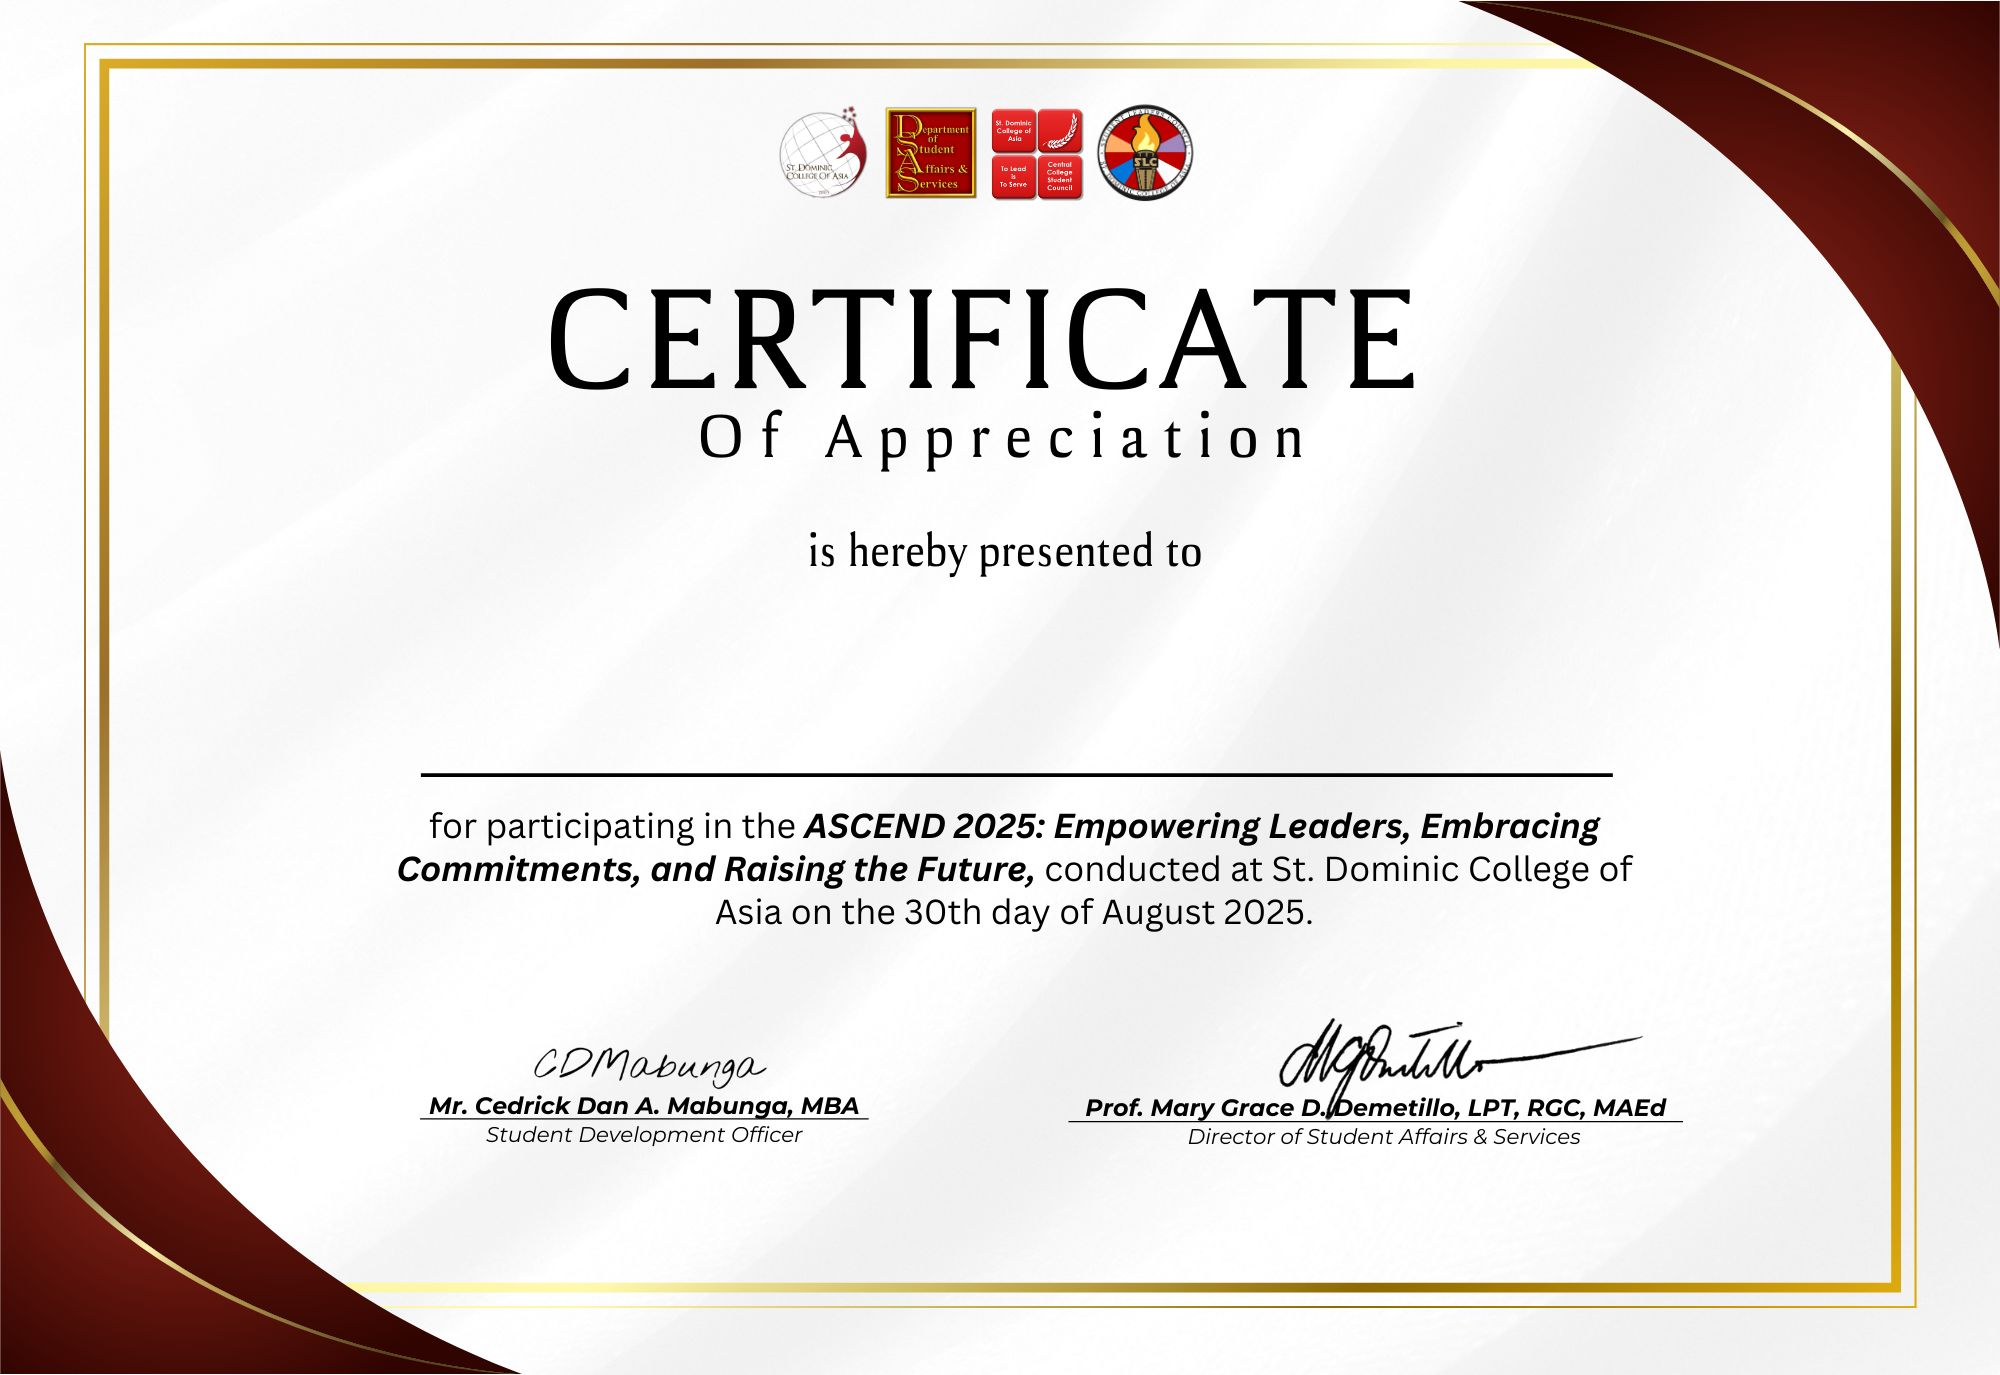
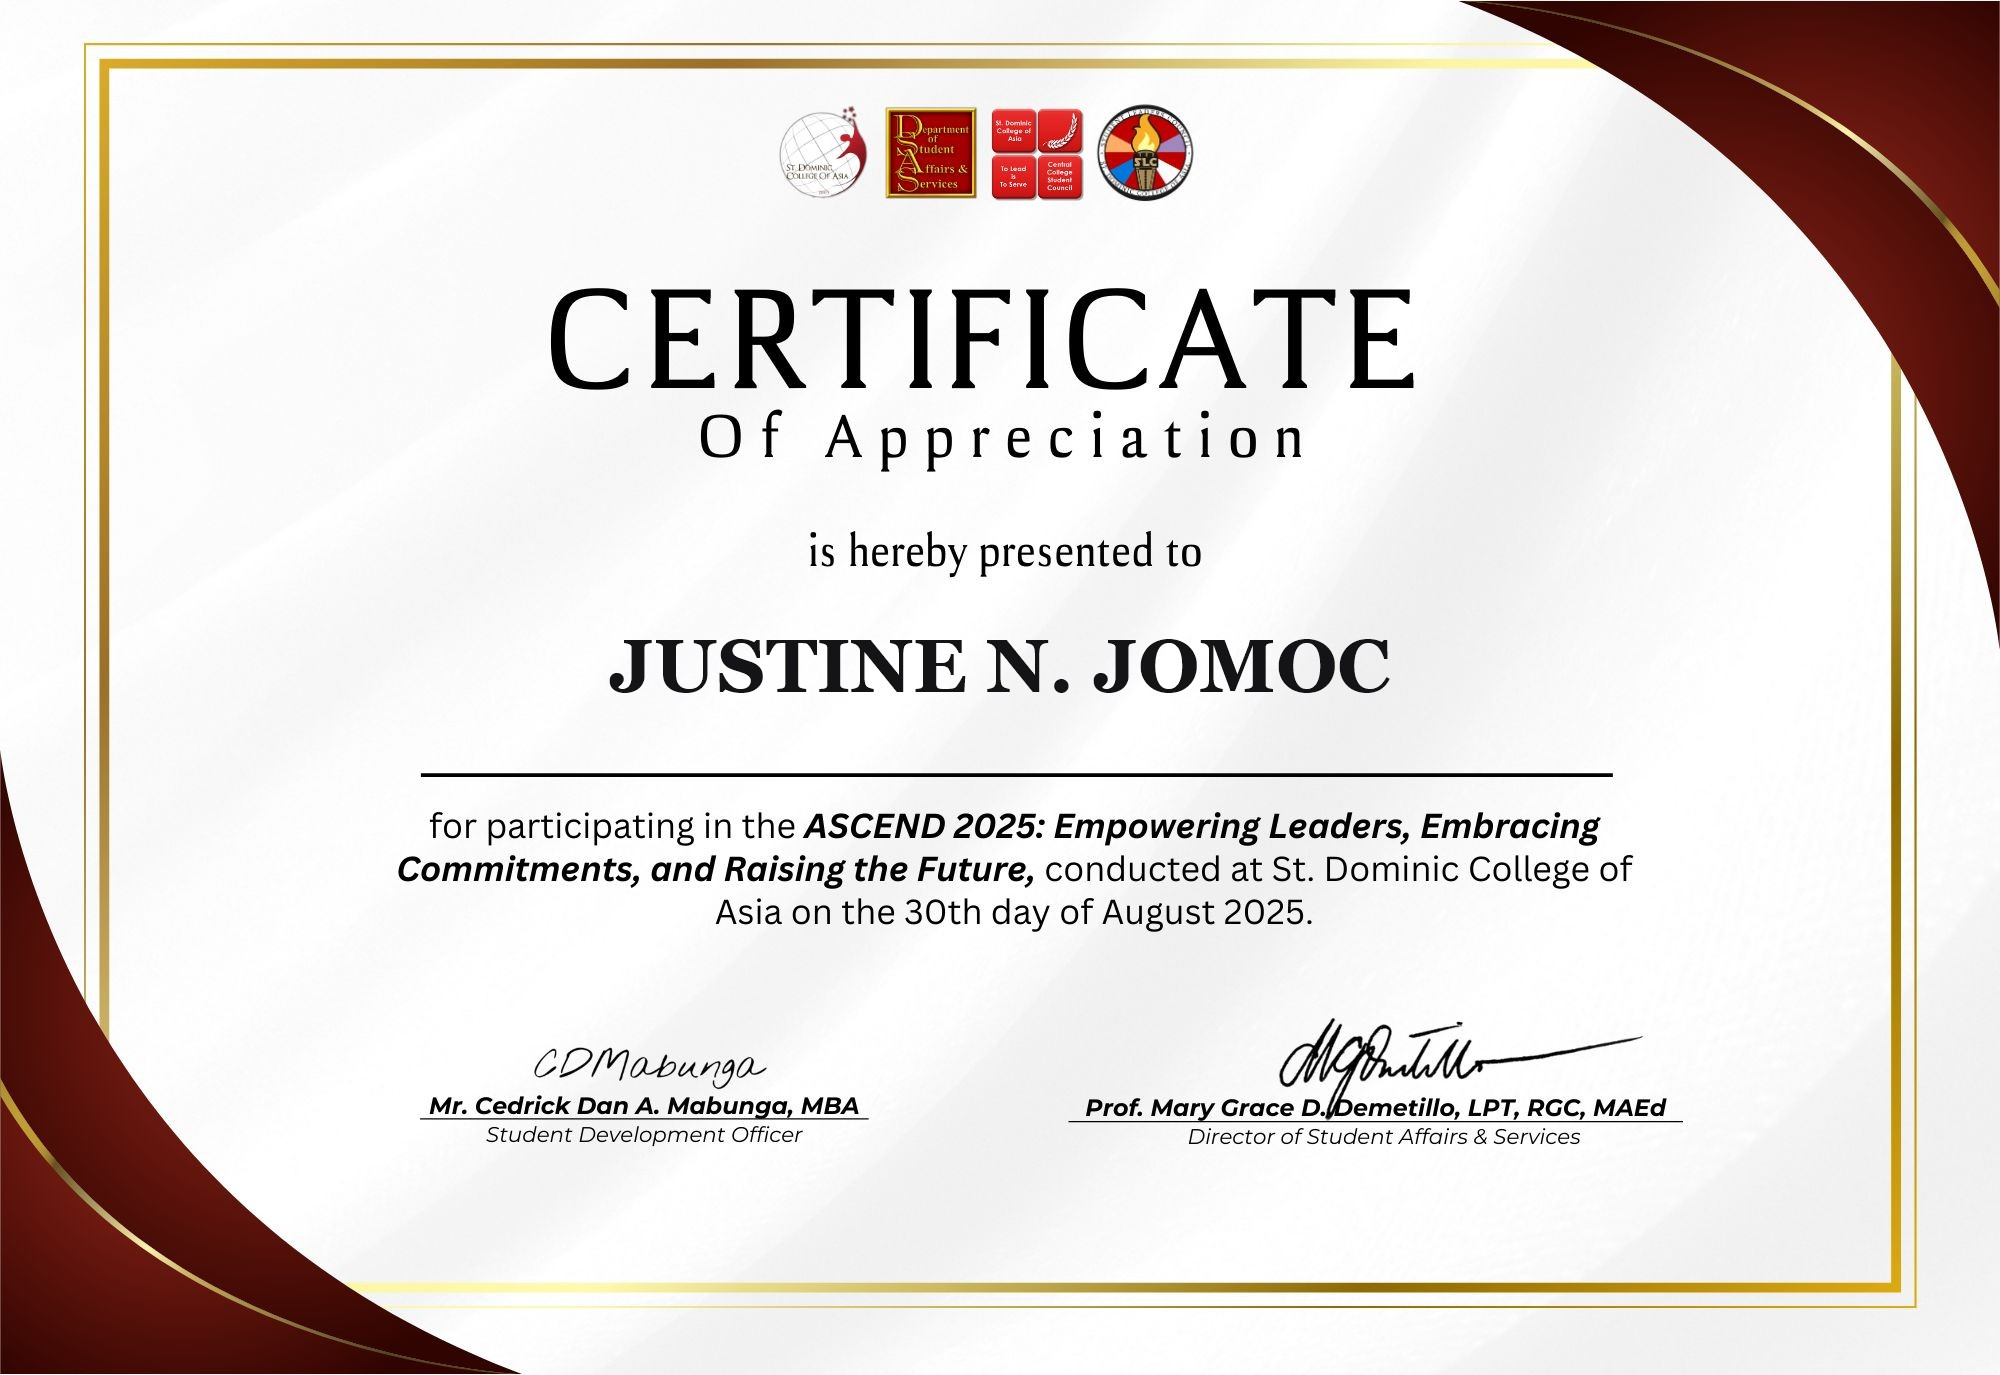
Center carousel navigation arrows in circle buttons and add Justine N. Jomoc to ASCEND 2025 certificate

Changed region(s): [[0.31, 0.4582, 0.682, 0.5193]]

diff --git a/styles.css b/styles.css
@@ -1850,3 +1850,73 @@ html[data-theme="dark"] .breadcrumb > span {
 [data-theme="light"] .contact-card-sub {
   color: #714757 !important;
 }
+/* ============================================================
+   GALLERY CONTROLS: PERFECTLY CENTERED ARROWS IN CIRCLE BUTTONS
+   ============================================================ */
+.gallery-controls > button {
+  width: 36px !important;
+  height: 36px !important;
+  border-radius: 50% !important;
+  display: flex !important;
+  align-items: center !important;
+  justify-content: center !important;
+  padding: 0 !important;
+  margin: 0 !important;
+  line-height: 1 !important;
+  border: 1px solid var(--line, rgba(255, 206, 216, 0.4)) !important;
+  background: rgba(255, 255, 255, 0.08) !important;
+  backdrop-filter: blur(8px) !important;
+  -webkit-backdrop-filter: blur(8px) !important;
+  box-shadow: 0 4px 12px rgba(0, 0, 0, 0.15) !important;
+  transition: transform 0.2s ease, background-color 0.2s ease, border-color 0.2s ease, box-shadow 0.2s ease !important;
+  cursor: pointer !important;
+}
+
+.gallery-controls > button:hover {
+  transform: scale(1.1) !important;
+  background: rgba(255, 105, 180, 0.25) !important;
+  border-color: #ff69b4 !important;
+  box-shadow: 0 6px 16px rgba(255, 105, 180, 0.35) !important;
+}
+
+.gallery-controls > button svg {
+  display: block !important;
+  margin: auto !important;
+  width: 15px !important;
+  height: 15px !important;
+  pointer-events: none !important;
+}
+
+[data-theme="light"] .gallery-controls > button {
+  background: rgba(255, 255, 255, 0.65) !important;
+  border-color: #d99aaf !important;
+  color: #3b1928 !important;
+  box-shadow: 0 4px 12px rgba(66, 35, 51, 0.1) !important;
+}
+
+[data-theme="light"] .gallery-controls > button:hover {
+  background: #ffffff !important;
+  border-color: #ff69b4 !important;
+  color: #ff69b4 !important;
+}
+
+[data-theme="dark"] .gallery-controls > button {
+  background: rgba(43, 27, 36, 0.75) !important;
+  border-color: rgba(255, 206, 216, 0.3) !important;
+  color: #ffffff !important;
+}
+
+#gallery-position {
+  font-size: 13.5px !important;
+  font-weight: 700 !important;
+  letter-spacing: 0.06em !important;
+  font-variant-numeric: tabular-nums !important;
+}
+
+[data-theme="light"] #gallery-position {
+  color: #3b1928 !important;
+}
+
+[data-theme="dark"] #gallery-position {
+  color: #ffffff !important;
+}

diff --git a/index.html b/index.html
@@ -430,9 +430,9 @@
         <span class="visual-caption"><span>Let's connect</span><span aria-hidden="true">&#x2197;</span></span>
       </button>
     </div><div class="gallery-controls">
-  <button id="gallery-prev" aria-label="Previous section">&#x2190;</button>
+  <button id="gallery-prev" aria-label="Previous section"><svg viewBox="0 0 24 24" width="16" height="16" fill="none" stroke="currentColor" stroke-width="2.2" stroke-linecap="round" stroke-linejoin="round" aria-hidden="true"><line x1="19" y1="12" x2="5" y2="12"></line><polyline points="12 19 5 12 12 5"></polyline></svg></button>
   <span id="gallery-position" aria-live="polite">01 / 07</span>
-  <button id="gallery-next" aria-label="Next section">&#x2192;</button>
+  <button id="gallery-next" aria-label="Next section"><svg viewBox="0 0 24 24" width="16" height="16" fill="none" stroke="currentColor" stroke-width="2.2" stroke-linecap="round" stroke-linejoin="round" aria-hidden="true"><line x1="5" y1="12" x2="19" y2="12"></line><polyline points="12 5 19 12 12 19"></polyline></svg></button>
 </div></div>
   </main>
   <div id="menu-backdrop" hidden></div><nav id="site-menu" hidden aria-label="Main navigation"><div class="menu-heading"><span>Explore</span><button id="menu-close" aria-label="Close menu">✕</button></div><a href="#about"><span>01</span>About<span>↗</span></a><a href="#projects"><span>02</span>Projects<span>↗</span></a><a href="#certifications"><span>03</span>Certifications & courses<span>↗</span></a><a href="#stack"><span>04</span>Tech stack<span>↗</span></a><a href="#awards"><span>05</span>Awards & activities<span>↗</span></a><a href="#leadership"><span>06</span>Leadership<span>↗</span></a><a href="#contact"><span>07</span>For hire<span>↗</span></a></nav>
